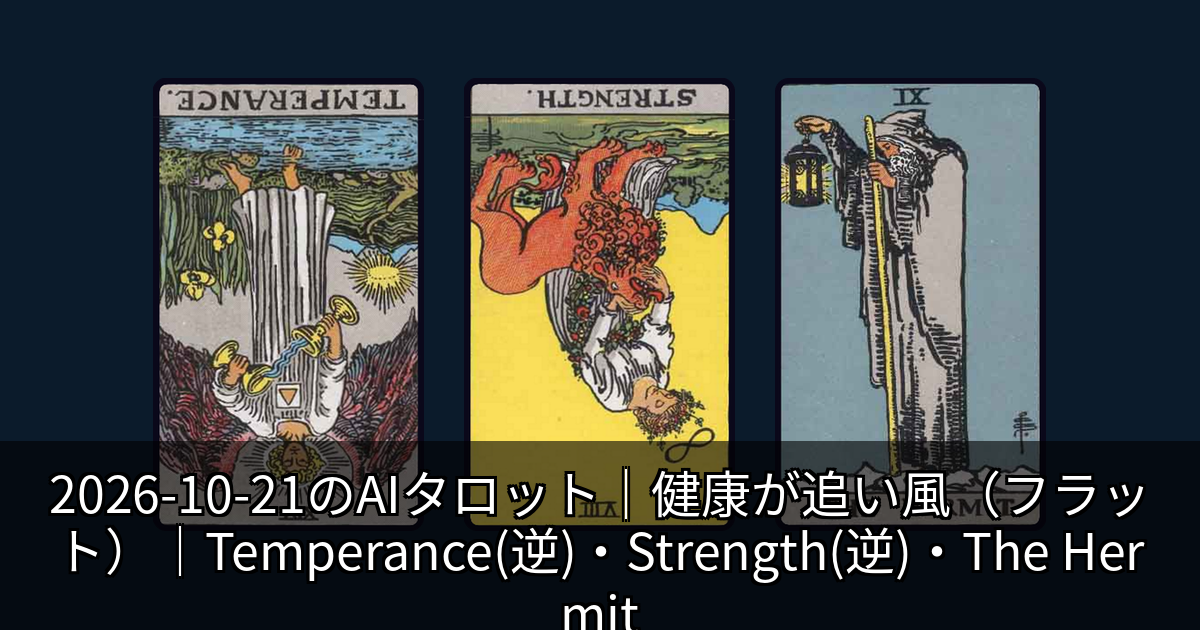
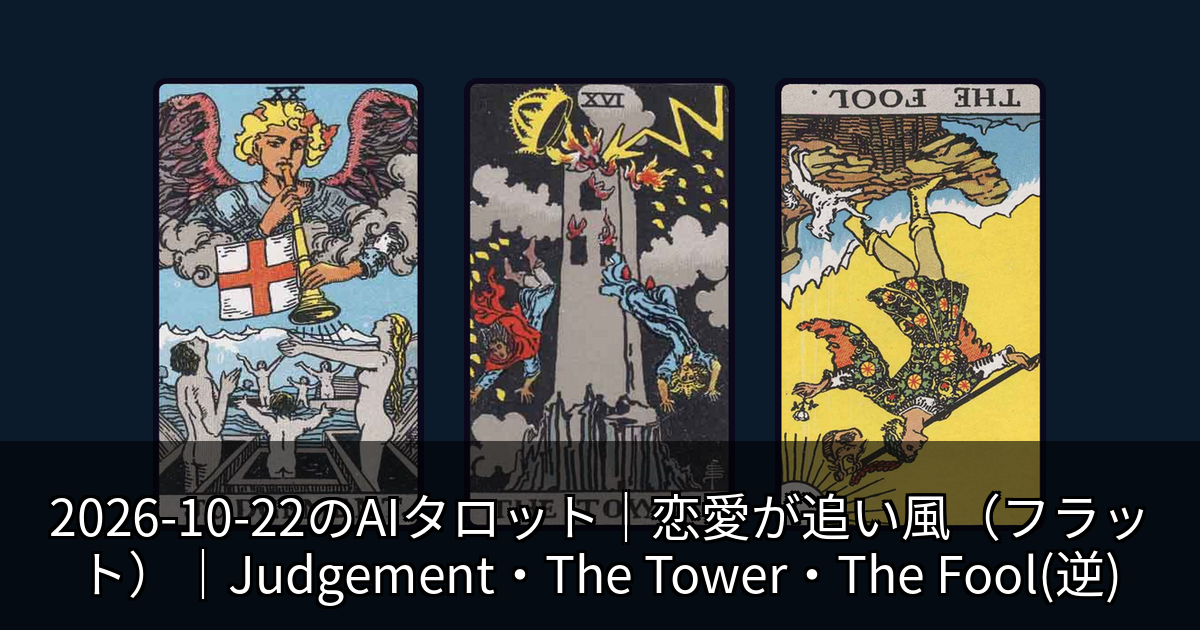
deploy: Noriyuki-1973/ai-tarot-note@fdca971a8c8f829890c86cca0af2ba38d5460e8d

diff --git a/latest/index.html b/latest/index.html
@@ -2,7 +2,7 @@
 <html lang="ja">
 <head>
   <meta charset="UTF-8">
-  <title>Latest Note (2026-10-21)</title>
+  <title>Latest Note (2026-10-22)</title>
   <style>
     body { font-family: sans-serif; background: #f4f5f7; margin: 0; padding: 0; }
     header { background: #0b1b2b; color: #fff; padding: 1em; }
@@ -11,42 +11,42 @@
   </style>
 </head>
 <body>
-  <header><h1>Latest Note (2026-10-21)</h1></header>
+  <header><h1>Latest Note (2026-10-22)</h1></header>
   <div class="content">
     <img src="cover.png" alt="cover" class="cover">
     <h2>本文</h2>
-    <pre># 2026-10-21のAIタロット｜健康が追い風（フラット）｜Temperance(逆)・Strength(逆)・The Hermit
+    <pre># 2026-10-22のAIタロット｜恋愛が追い風（フラット）｜Judgement・The Tower・The Fool(逆)
 
-対象: **全体運**（日付: 2026-10-21）
+対象: **全体運**（日付: 2026-10-22）
 
 ## 今日のスコア（1〜5）
-- 恋愛運: **2**  ★★☆☆☆
-- 仕事運: **2**  ★★☆☆☆
-- 金運: **2**  ★★☆☆☆
+- 恋愛運: **3**  ★★★☆☆
+- 仕事運: **3**  ★★★☆☆
+- 金運: **3**  ★★★☆☆
 - 健康運: **3**  ★★★☆☆
 
 ## 今日のタロット（3枚）
-- **Temperance**（逆位置）
-- **Strength**（逆位置）
-- **The Hermit**（正位置）
+- **Judgement**（正位置）
+- **The Tower**（正位置）
+- **The Fool**（逆位置）
 
 ## ラッキー
 - 色: **白**
-- アイテム: **キーホルダー**
+- アイテム: **ボールペン**
 
 ## まとめ
-平均2.2（慎重さ大事）。特に『health』が追い風。カード：Temperance（逆）, Strength（逆）, The Hermit。
+平均3.0（フラット）。特に『love』が追い風。カード：Judgement, The Tower, The Fool（逆）。
 
 ## 一言アドバイス
-- **恋愛**: 【love】鍵は「慎重さ×歩調合わせ（課題／逆位置）」。今日は丁寧に気持ちを言葉にするの一歩を。焦らず足元固めも忘れずに。
-- **仕事**: 【work】鍵は「慎重さ×調整・配合（課題／逆位置）」。今日は優先順位を決めるの一歩を。焦らず足元固めも忘れずに。
-- **金運**: 【money】慎重さ×節制の流れ。固定費を見直すと、焦らず足元固めを意識すると運気が伸びます。
-- **健康**: 【health】鍵は「整える×静養」。今日は水分補給を意識するの一歩を。やり過ぎ注意も忘れずに。
+- **恋愛**: 【love】鍵は「整える×新しい出会い・無邪気さ（課題／逆位置）」。今日は連絡を取るの一歩を。やり過ぎ注意も忘れずに。
+- **仕事**: 【work】鍵は「整える×冒険・自由（課題／逆位置）」。今日は5分だけ前倒しするの一歩を。やり過ぎ注意も忘れずに。
+- **金運**: 【money】整える×見直しで上向きが追い風。先取り貯蓄するすると良縁が集まります。やり過ぎ注意を心がけて。
+- **健康**: 【health】整える×無理は禁物の流れ。水分補給を意識すると、やり過ぎ注意を意識すると運気が伸びます。
 
 ---
 ※ 本記事はAI生成のエンタメ占いです。参考程度にお楽しみください。
 
-（タグ）占い / タロット / AI占い / 今日の運勢 / Temperance / Strength / The Hermit / 健康運</pre>
+（タグ）占い / タロット / AI占い / 今日の運勢 / Judgement / The Tower / The Fool / 恋愛運</pre>
   </div>
 </body>
 </html>

diff --git a/latest/body.md b/latest/body.md
@@ -1,32 +1,32 @@
-# 2026-10-21のAIタロット｜健康が追い風（フラット）｜Temperance(逆)・Strength(逆)・The Hermit
+# 2026-10-22のAIタロット｜恋愛が追い風（フラット）｜Judgement・The Tower・The Fool(逆)
 
-対象: **全体運**（日付: 2026-10-21）
+対象: **全体運**（日付: 2026-10-22）
 
 ## 今日のスコア（1〜5）
-- 恋愛運: **2**  ★★☆☆☆
-- 仕事運: **2**  ★★☆☆☆
-- 金運: **2**  ★★☆☆☆
+- 恋愛運: **3**  ★★★☆☆
+- 仕事運: **3**  ★★★☆☆
+- 金運: **3**  ★★★☆☆
 - 健康運: **3**  ★★★☆☆
 
 ## 今日のタロット（3枚）
-- **Temperance**（逆位置）
-- **Strength**（逆位置）
-- **The Hermit**（正位置）
+- **Judgement**（正位置）
+- **The Tower**（正位置）
+- **The Fool**（逆位置）
 
 ## ラッキー
 - 色: **白**
-- アイテム: **キーホルダー**
+- アイテム: **ボールペン**
 
 ## まとめ
-平均2.2（慎重さ大事）。特に『health』が追い風。カード：Temperance（逆）, Strength（逆）, The Hermit。
+平均3.0（フラット）。特に『love』が追い風。カード：Judgement, The Tower, The Fool（逆）。
 
 ## 一言アドバイス
-- **恋愛**: 【love】鍵は「慎重さ×歩調合わせ（課題／逆位置）」。今日は丁寧に気持ちを言葉にするの一歩を。焦らず足元固めも忘れずに。
-- **仕事**: 【work】鍵は「慎重さ×調整・配合（課題／逆位置）」。今日は優先順位を決めるの一歩を。焦らず足元固めも忘れずに。
-- **金運**: 【money】慎重さ×節制の流れ。固定費を見直すと、焦らず足元固めを意識すると運気が伸びます。
-- **健康**: 【health】鍵は「整える×静養」。今日は水分補給を意識するの一歩を。やり過ぎ注意も忘れずに。
+- **恋愛**: 【love】鍵は「整える×新しい出会い・無邪気さ（課題／逆位置）」。今日は連絡を取るの一歩を。やり過ぎ注意も忘れずに。
+- **仕事**: 【work】鍵は「整える×冒険・自由（課題／逆位置）」。今日は5分だけ前倒しするの一歩を。やり過ぎ注意も忘れずに。
+- **金運**: 【money】整える×見直しで上向きが追い風。先取り貯蓄するすると良縁が集まります。やり過ぎ注意を心がけて。
+- **健康**: 【health】整える×無理は禁物の流れ。水分補給を意識すると、やり過ぎ注意を意識すると運気が伸びます。
 
 ---
 ※ 本記事はAI生成のエンタメ占いです。参考程度にお楽しみください。
 
-（タグ）占い / タロット / AI占い / 今日の運勢 / Temperance / Strength / The Hermit / 健康運
+（タグ）占い / タロット / AI占い / 今日の運勢 / Judgement / The Tower / The Fool / 恋愛運

diff --git a/2026-10-22/body.md b/2026-10-22/body.md
@@ -1,0 +1,32 @@
+# 2026-10-22のAIタロット｜恋愛が追い風（フラット）｜Judgement・The Tower・The Fool(逆)
+
+対象: **全体運**（日付: 2026-10-22）
+
+## 今日のスコア（1〜5）
+- 恋愛運: **3**  ★★★☆☆
+- 仕事運: **3**  ★★★☆☆
+- 金運: **3**  ★★★☆☆
+- 健康運: **3**  ★★★☆☆
+
+## 今日のタロット（3枚）
+- **Judgement**（正位置）
+- **The Tower**（正位置）
+- **The Fool**（逆位置）
+
+## ラッキー
+- 色: **白**
+- アイテム: **ボールペン**
+
+## まとめ
+平均3.0（フラット）。特に『love』が追い風。カード：Judgement, The Tower, The Fool（逆）。
+
+## 一言アドバイス
+- **恋愛**: 【love】鍵は「整える×新しい出会い・無邪気さ（課題／逆位置）」。今日は連絡を取るの一歩を。やり過ぎ注意も忘れずに。
+- **仕事**: 【work】鍵は「整える×冒険・自由（課題／逆位置）」。今日は5分だけ前倒しするの一歩を。やり過ぎ注意も忘れずに。
+- **金運**: 【money】整える×見直しで上向きが追い風。先取り貯蓄するすると良縁が集まります。やり過ぎ注意を心がけて。
+- **健康**: 【health】整える×無理は禁物の流れ。水分補給を意識すると、やり過ぎ注意を意識すると運気が伸びます。
+
+---
+※ 本記事はAI生成のエンタメ占いです。参考程度にお楽しみください。
+
+（タグ）占い / タロット / AI占い / 今日の運勢 / Judgement / The Tower / The Fool / 恋愛運
